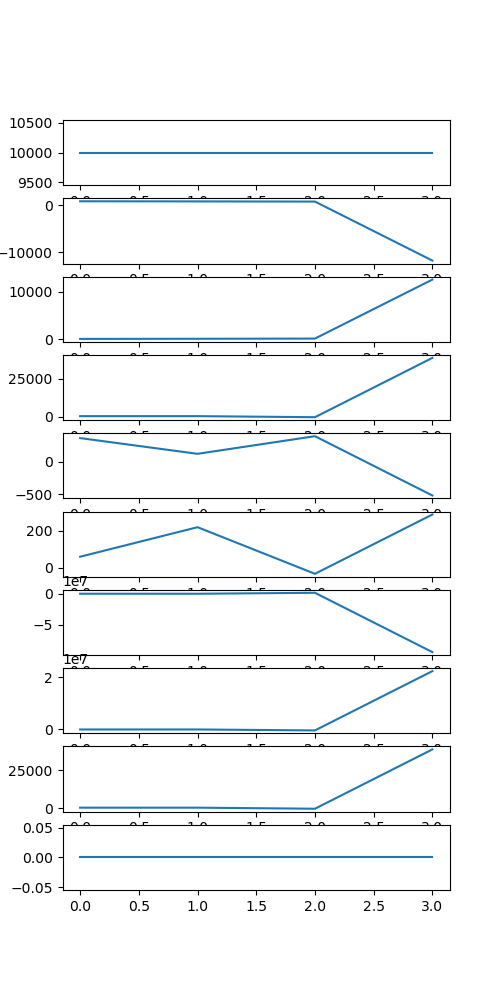
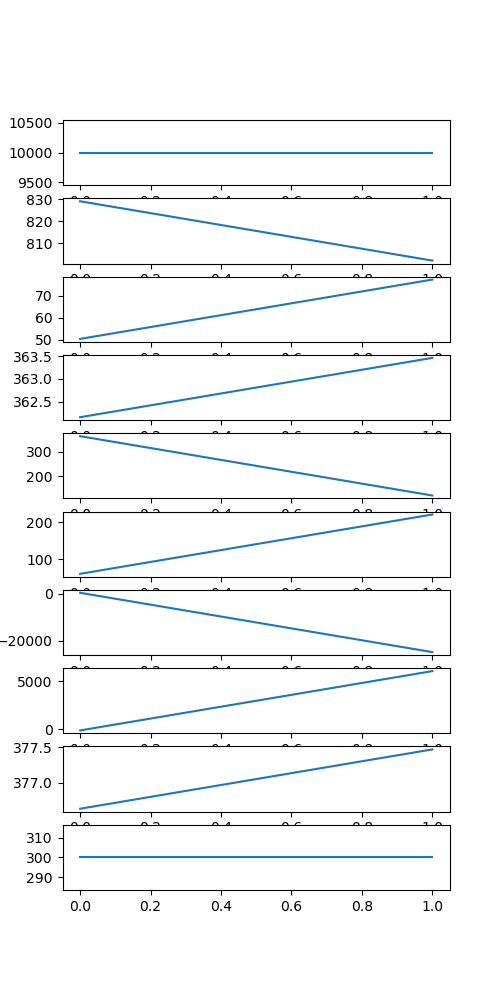
use do_mpc_model

diff --git a/gym_poly_reactor/envs/poly_reactor_env.py b/gym_poly_reactor/envs/poly_reactor_env.py
@@ -23,12 +23,12 @@ T_M_INIT, T_M_MIN, T_M_MAX = 90.0 + abs_zero, abs_zero, 100 + abs_zero  # [Kelvi
 T_EK_INIT, T_EK_MIN, T_EK_MAX = 35.0 + abs_zero, abs_zero, 100 + abs_zero  # [Kelvin]
 T_AWT_INIT, T_AWT_MIN, T_AWT_MAX = 35.0 + abs_zero, abs_zero, 100 + abs_zero  # [Kelvin]
 T_adiab_INIT, T_adiab_MIN, T_adiab_MAX = 378.04682, abs_zero, 109 + abs_zero  # [Kelvin]
-m_acc_F_init, m_acc_F_MIN, m_acc_F_MAX = 300, 0, 30000  # [kg]
+m_acc_F_INIT, m_acc_F_MIN, m_acc_F_MAX = 300, 0, 30000  # [kg]
 
 # Action space
 m_DOT_F_MIN, m_DOT_F_MAX = 0, 30000  # [kgh^-1]
-T_IN_M_MIN, T_IN_M_MAX = 60 + abs_zero, 100 + abs_zero  # [celsius]
-T_IN_AWT_MIN, T_IN_AWT_MAX = 60 + abs_zero, 100 + abs_zero  # [celsius]
+T_IN_M_MIN, T_IN_M_MAX = 60 + abs_zero, 100 + abs_zero  # [Kelvin]
+T_IN_AWT_MIN, T_IN_AWT_MAX = 60 + abs_zero, 100 + abs_zero  # [Kelvin]
 
 
 class PolyReactor(gym.Env):
@@ -43,8 +43,7 @@ class PolyReactor(gym.Env):
                              T_R_MAX, T_S_MAX, T_M_MAX,
                              T_EK_MAX, T_AWT_MAX, T_adiab_MAX, m_acc_F_MAX])
 
-        self.observation_space = spaces.Box(
-            low=obs_low, high=obs_high, dtype=np.float32)
+        self.observation_space = spaces.Box(low=obs_low, high=obs_high, dtype=np.float32)
 
         act_low = np.array([m_DOT_F_MIN, T_IN_M_MIN, T_IN_AWT_MIN])
         act_high = np.array([m_DOT_F_MAX, T_IN_M_MAX, T_IN_AWT_MAX])
@@ -63,15 +62,14 @@ class PolyReactor(gym.Env):
         return m_w, m_a, m_p, T_R, T_S, T_M, T_EK, T_AWT, T_adiab, m_acc
 
     def _get_aux_variable(self):
-        abs_zero = 273.15
         m_w, m_a, m_p, T_R, T_S, _, T_EK, _, _, _ = self._get_copied_state()
 
         # TODO: 0 division edge case handling
 
         U = m_p / (m_a + m_p)
         m_ges = m_w + m_a + m_p
-        k_r1 = k_0 * np.exp(-E_a / (R * (T_R))) * (k_U1 * (1 - U) + k_U2 * U)
-        k_r2 = k_0 * np.exp(-E_a / (R * (T_EK))) * (k_U1 * (1 - U) + k_U2 * U)
+        k_r1 = k_0 * np.exp(-E_a / (R * T_R)) * (k_U1 * (1 - U) + k_U2 * U)
+        k_r2 = k_0 * np.exp(-E_a / (R * T_EK)) * (k_U1 * (1 - U) + k_U2 * U)
         print("here")
         k_K = (m_w * k_WS + m_a * k_AS + m_p * k_PS) / (m_ges)
         m_a_r = m_a - m_a * m_AWT / m_ges
@@ -96,10 +94,12 @@ class PolyReactor(gym.Env):
 
         # 2nd ODE
         m_a_dot = m_dot_f * w_AF - k_r1 * m_a_r - k_r2 * m_AWT * (m_a / m_ges)
+        # m_a_dot = (m_dot_f * w_AF) - (k_r1 * (m_a - ((m_a * m_AWT) / (m_w + m_a + m_p)))) - (p_1 * k_r2 * (m_a / m_ges) * m_AWT)
         m_a_new = m_a + self.tau * m_a_dot
 
         # 3rd ODE
         m_p_dot = k_r1 * m_a_r + p_1 * k_r2 * m_AWT * m_a / m_ges
+        # m_p_dot = (k_r1 * (m_a-((m_a*m_AWT)/(m_w+m_a+m_p)))) + (p_1 * k_r2 * (m_a/m_ges) * m_AWT)
         m_p_new = m_p + self.tau * m_p_dot
 
         # 4th ODE
@@ -107,32 +107,48 @@ class PolyReactor(gym.Env):
                 m_dot_f * c_pF * (T_F - T_R) + delH_R * k_r1 * m_a_r - k_K * A_tank * (T_R - T_S) - fm_AWT * c_pR * (
                 T_R - T_EK))
         T_R_dot = 1.0 / (c_pR * m_ges) * _4th_ode_mul
+
+        # T_R_dot = 1. / (c_pR * m_ges) * (
+        #         (m_dot_f * c_pF * (T_F - T_R)) - (k_K * A_tank * (T_R - T_S)) - (fm_AWT * c_pR * (T_R - T_EK)) + (
+        #         delH_R * k_r1 * (m_a - ((m_a * m_AWT) / (m_w + m_a + m_p)))))
         T_R_new = T_R + self.tau * T_R_dot
 
         # 5th ODE
         T_S_dot = 1.0 / (c_pS * m_S) * (k_K * A_tank * (T_R - 2 * T_S + T_M))
+        # T_S_dot = 1. / (c_pS * m_S) * ((k_K * A_tank * (T_R - T_S)) - (k_K * A_tank * (T_S - T_M)))
         T_S_new = T_S + self.tau * T_S_dot
 
         # 6th ODE
         # TODO: double check equation
         T_M_dot = 1.0 / (c_pW * m_M_KW) * (fm_M_KW * c_pW * (t_m_in - T_M) + k_K * A_tank * (T_S - T_M))
+        # T_M_dot = 1. / (c_pW * m_M_KW) * ((fm_M_KW * c_pW * (t_m_in - T_M)) + (k_K * A_tank * (T_S - T_M)))
         T_M_new = T_M + self.tau * T_M_dot
 
         # 7th ODE
-        _7th_ode_mul = (fm_AWT * c_pW * (T_R - T_EK) - alfa * (T_EK - T_AWT) + k_r2 * m_a * m_AWT * delH_R / m_ges)
+        _7th_ode_mul = (fm_AWT * c_pR * (T_R - T_EK) - alfa * (T_EK - T_AWT) + k_r2 * m_a * m_AWT * delH_R / m_ges)
         T_EK_dot = 1.0 / (c_pR * m_AWT) * _7th_ode_mul
+
+        # T_EK_dot = 1. / (c_pR * m_AWT) * ((fm_AWT * c_pR * (T_R - T_EK)) - (alfa * (T_EK - T_AWT)) + (
+        #         p_1 * k_r2 * (m_a / m_ges) * m_AWT * delH_R))
+
         T_EK_new = T_EK + self.tau * T_EK_dot
+        # T_EK_new = np.clip(T_EK_new, a_min=T_EK_MIN, a_max=T_EK_MAX)
 
         # 8th ODE
         _8th_ode_numer = (fm_AWT_KW * c_pW * (t_awt_in - T_AWT) - alfa * (T_AWT - T_EK))
         _8th_ode_denom = (c_pW * m_AWT_KW)
         T_AWT_dot = _8th_ode_numer / _8th_ode_denom
+        # T_AWT_dot = 1. / (c_pW * m_AWT_KW) * ((fm_AWT_KW * c_pW * (t_awt_in - T_AWT)) - (alfa * (T_AWT - T_EK)))
         T_AWT_new = T_AWT + self.tau * T_AWT_dot
+        # T_AWT_new = np.clip(T_AWT_new, a_min=T_AWT_MIN, a_max=T_AWT_MAX)
 
         # SAFETY VARIABLES
         # 9th ODE
         T_adiab_dot = delH_R / (m_ges * c_pR) * m_a_dot - (m_w_dot + m_a_dot + m_p_dot) * (
-                (m_a * delH_R) / (m_ges ** 2 * c_pR)) + T_R_dot
+                (m_a * delH_R) / (m_ges * m_ges * c_pR)) + T_R_dot
+        # T_adiab_dot = delH_R / (m_ges * c_pR) * m_a_dot - (m_w_dot + m_a_dot + m_p_dot) * (
+        #             m_a * delH_R / (m_ges * m_ges * c_pR)) + T_R_dot
+
         T_adiab_new = T_adiab + self.tau * T_adiab_dot
 
         # 10th ODE
@@ -140,7 +156,7 @@ class PolyReactor(gym.Env):
         m_acc_new = m_acc + self.tau * m_acc_dot
 
         state_new = [m_w_new, m_a_new, m_p_new, T_R_new, T_S_new, T_M_new, T_EK_new, T_AWT_new, T_adiab_new, m_acc_new]
-        self.state = np.array(state_new)
+        self.state = np.squeeze(np.array(state_new))
         done = self.check_done()
 
         # TODO: Design reward depending on the goal
@@ -148,12 +164,13 @@ class PolyReactor(gym.Env):
             reward = 0
         else:
             reward = m_p_new - m_p
+
         return np.array(state_new).squeeze(), reward, done, {}
 
     def reset(self, random_init=False):
         x0 = [m_W_INIT, m_A_INIT, m_P_INIT,
               T_R_INIT, T_S_INIT, T_M_INIT, T_EK_INIT,
-              T_AWT_INIT, T_adiab_INIT, m_acc_F_MIN]
+              T_AWT_INIT, T_adiab_INIT, m_acc_F_INIT]
         x0 = np.array(x0)
         if random_init:
             x0 = np.random.uniform(low=x0 * 0.9, high=x0 * 1.1)

diff --git a/gym_poly_reactor/envs/get_do_mpc_model.py b/gym_poly_reactor/envs/get_do_mpc_model.py
@@ -1,0 +1,109 @@
+import do_mpc
+from casadi import exp
+
+from gym_poly_reactor.envs.params import *
+
+
+def get_simulator():
+    model = do_mpc.model.Model('continuous')
+
+    # set uncertain variables
+    delH_R = model.set_variable('_p', 'delH_R')
+    k_0 = model.set_variable('_p', 'k_0')
+
+    # set state variables
+    m_W = model.set_variable('_x', 'm_W')
+    m_A = model.set_variable('_x', 'm_A')
+    m_P = model.set_variable('_x', 'm_P')
+    T_R = model.set_variable('_x', 'T_R')
+    T_S = model.set_variable('_x', 'T_S')
+    Tout_M = model.set_variable('_x', 'Tout_M')
+    T_EK = model.set_variable('_x', 'T_EK')
+    Tout_AWT = model.set_variable('_x', 'Tout_AWT')
+    accum_monom = model.set_variable('_x', 'accum_monom')
+    T_adiab = model.set_variable('_x', 'T_adiab')
+
+    # set control variables
+    m_dot_f = model.set_variable('_u', 'm_dot_f')
+    T_in_M = model.set_variable('_u', 'T_in_M')
+    T_in_EK = model.set_variable('_u', 'T_in_EK')
+
+    # algebraic equations
+    U_m = m_P / (m_A + m_P)
+    m_ges = m_W + m_A + m_P
+    k_R1 = k_0 * exp(- E_a / (R * T_R)) * ((k_U1 * (1 - U_m)) + (k_U2 * U_m))
+    k_R2 = k_0 * exp(- E_a / (R * T_EK)) * ((k_U1 * (1 - U_m)) + (k_U2 * U_m))
+    k_K = ((m_W / m_ges) * k_WS) + ((m_A / m_ges) * k_AS) + ((m_P / m_ges) * k_PS)
+
+    # Differential equations
+    dot_m_W = m_dot_f * w_WF
+    model.set_rhs('m_W', dot_m_W)
+    dot_m_A = (m_dot_f * w_AF) - (k_R1 * (m_A - ((m_A * m_AWT) / (m_W + m_A + m_P)))) - (
+            p_1 * k_R2 * (m_A / m_ges) * m_AWT)
+    model.set_rhs('m_A', dot_m_A)
+    dot_m_P = (k_R1 * (m_A - ((m_A * m_AWT) / (m_W + m_A + m_P)))) + (p_1 * k_R2 * (m_A / m_ges) * m_AWT)
+    model.set_rhs('m_P', dot_m_P)
+
+    dot_T_R = 1. / (c_pR * m_ges) * (
+            (m_dot_f * c_pF * (T_F - T_R)) - (k_K * A_tank * (T_R - T_S)) - (fm_AWT * c_pR * (T_R - T_EK)) + (
+            delH_R * k_R1 * (m_A - ((m_A * m_AWT) / (m_W + m_A + m_P)))))
+    model.set_rhs('T_R', dot_T_R)
+    model.set_rhs('T_S', 1. / (c_pS * m_S) * ((k_K * A_tank * (T_R - T_S)) - (k_K * A_tank * (T_S - Tout_M))))
+    model.set_rhs('Tout_M',
+                  1. / (c_pW * m_M_KW) * ((fm_M_KW * c_pW * (T_in_M - Tout_M)) + (k_K * A_tank * (T_S - Tout_M))))
+    model.set_rhs('T_EK', 1. / (c_pR * m_AWT) * ((fm_AWT * c_pR * (T_R - T_EK)) - (alfa * (T_EK - Tout_AWT)) + (
+            p_1 * k_R2 * (m_A / m_ges) * m_AWT * delH_R)))
+    model.set_rhs('Tout_AWT',
+                  1. / (c_pW * m_AWT_KW) * ((fm_AWT_KW * c_pW * (T_in_EK - Tout_AWT)) - (alfa * (Tout_AWT - T_EK))))
+    model.set_rhs('accum_monom', m_dot_f)
+    model.set_rhs('T_adiab', delH_R / (m_ges * c_pR) * dot_m_A - (dot_m_A + dot_m_W + dot_m_P) * (
+            m_A * delH_R / (m_ges * m_ges * c_pR)) + dot_T_R)
+
+    model.setup()
+
+    simulator = do_mpc.simulator.Simulator(model)
+
+    params_simulator = {
+        'integration_tool': 'cvodes',
+        'abstol': 1e-10,
+        'reltol': 1e-10,
+        't_step': 50.0 / 3600.0
+    }
+
+    simulator.set_param(**params_simulator)
+
+    p_num = simulator.get_p_template()
+    tvp_num = simulator.get_tvp_template()
+
+    # uncertain parameters
+    p_num['delH_R'] = 950  # * np.random.uniform(1, 1)
+    p_num['k_0'] = 7  # * np.random.uniform(1, 1)
+
+    def p_fun(t_now):
+        return p_num
+
+    simulator.set_p_fun(p_fun)
+    simulator.setup()
+
+    # Set the initial state of the controller and simulator:
+    # assume nominal values of uncertain parameters as initial guess
+    delH_R_real = 950.0
+    c_pR = 5.0
+
+    # x0 is a property of the simulator - we obtain it and set values.
+    x0 = simulator.x0
+
+    x0['m_W'] = 10000.0
+    x0['m_A'] = 853.0
+    x0['m_P'] = 26.5
+
+    x0['T_R'] = 90.0 + 273.15
+    x0['T_S'] = 90.0 + 273.15
+    x0['Tout_M'] = 90.0 + 273.15
+    x0['T_EK'] = 35.0 + 273.15
+    x0['Tout_AWT'] = 35.0 + 273.15
+    x0['accum_monom'] = 300.0
+    x0['T_adiab'] = x0['m_A'] * delH_R_real / ((x0['m_W'] + x0['m_A'] + x0['m_P']) * c_pR) + x0['T_R']
+
+    simulator.x0 = x0
+    return simulator

diff --git a/main.py b/main.py
@@ -13,17 +13,21 @@ if __name__ == '__main__':
     action_trajectory = []
 
     step = 0
+    print(s0)
 
     # while True:
-    for _ in range(4):
-
+    for _ in range(2):
         action = env.action_space.sample()
+        action = [19600.26190743, 364.7085358, 333.15]
         action = [0, 0, 0]
         next_state, _, done, _ = env.step(action)
+
         state_trajectory.append(next_state)
         action_trajectory.append(action)
-        print("{}th step".format(step))
+
         step += 1
+        print("{}th step".format(step))
+        print(next_state)
         # if done:
         #     break
 
